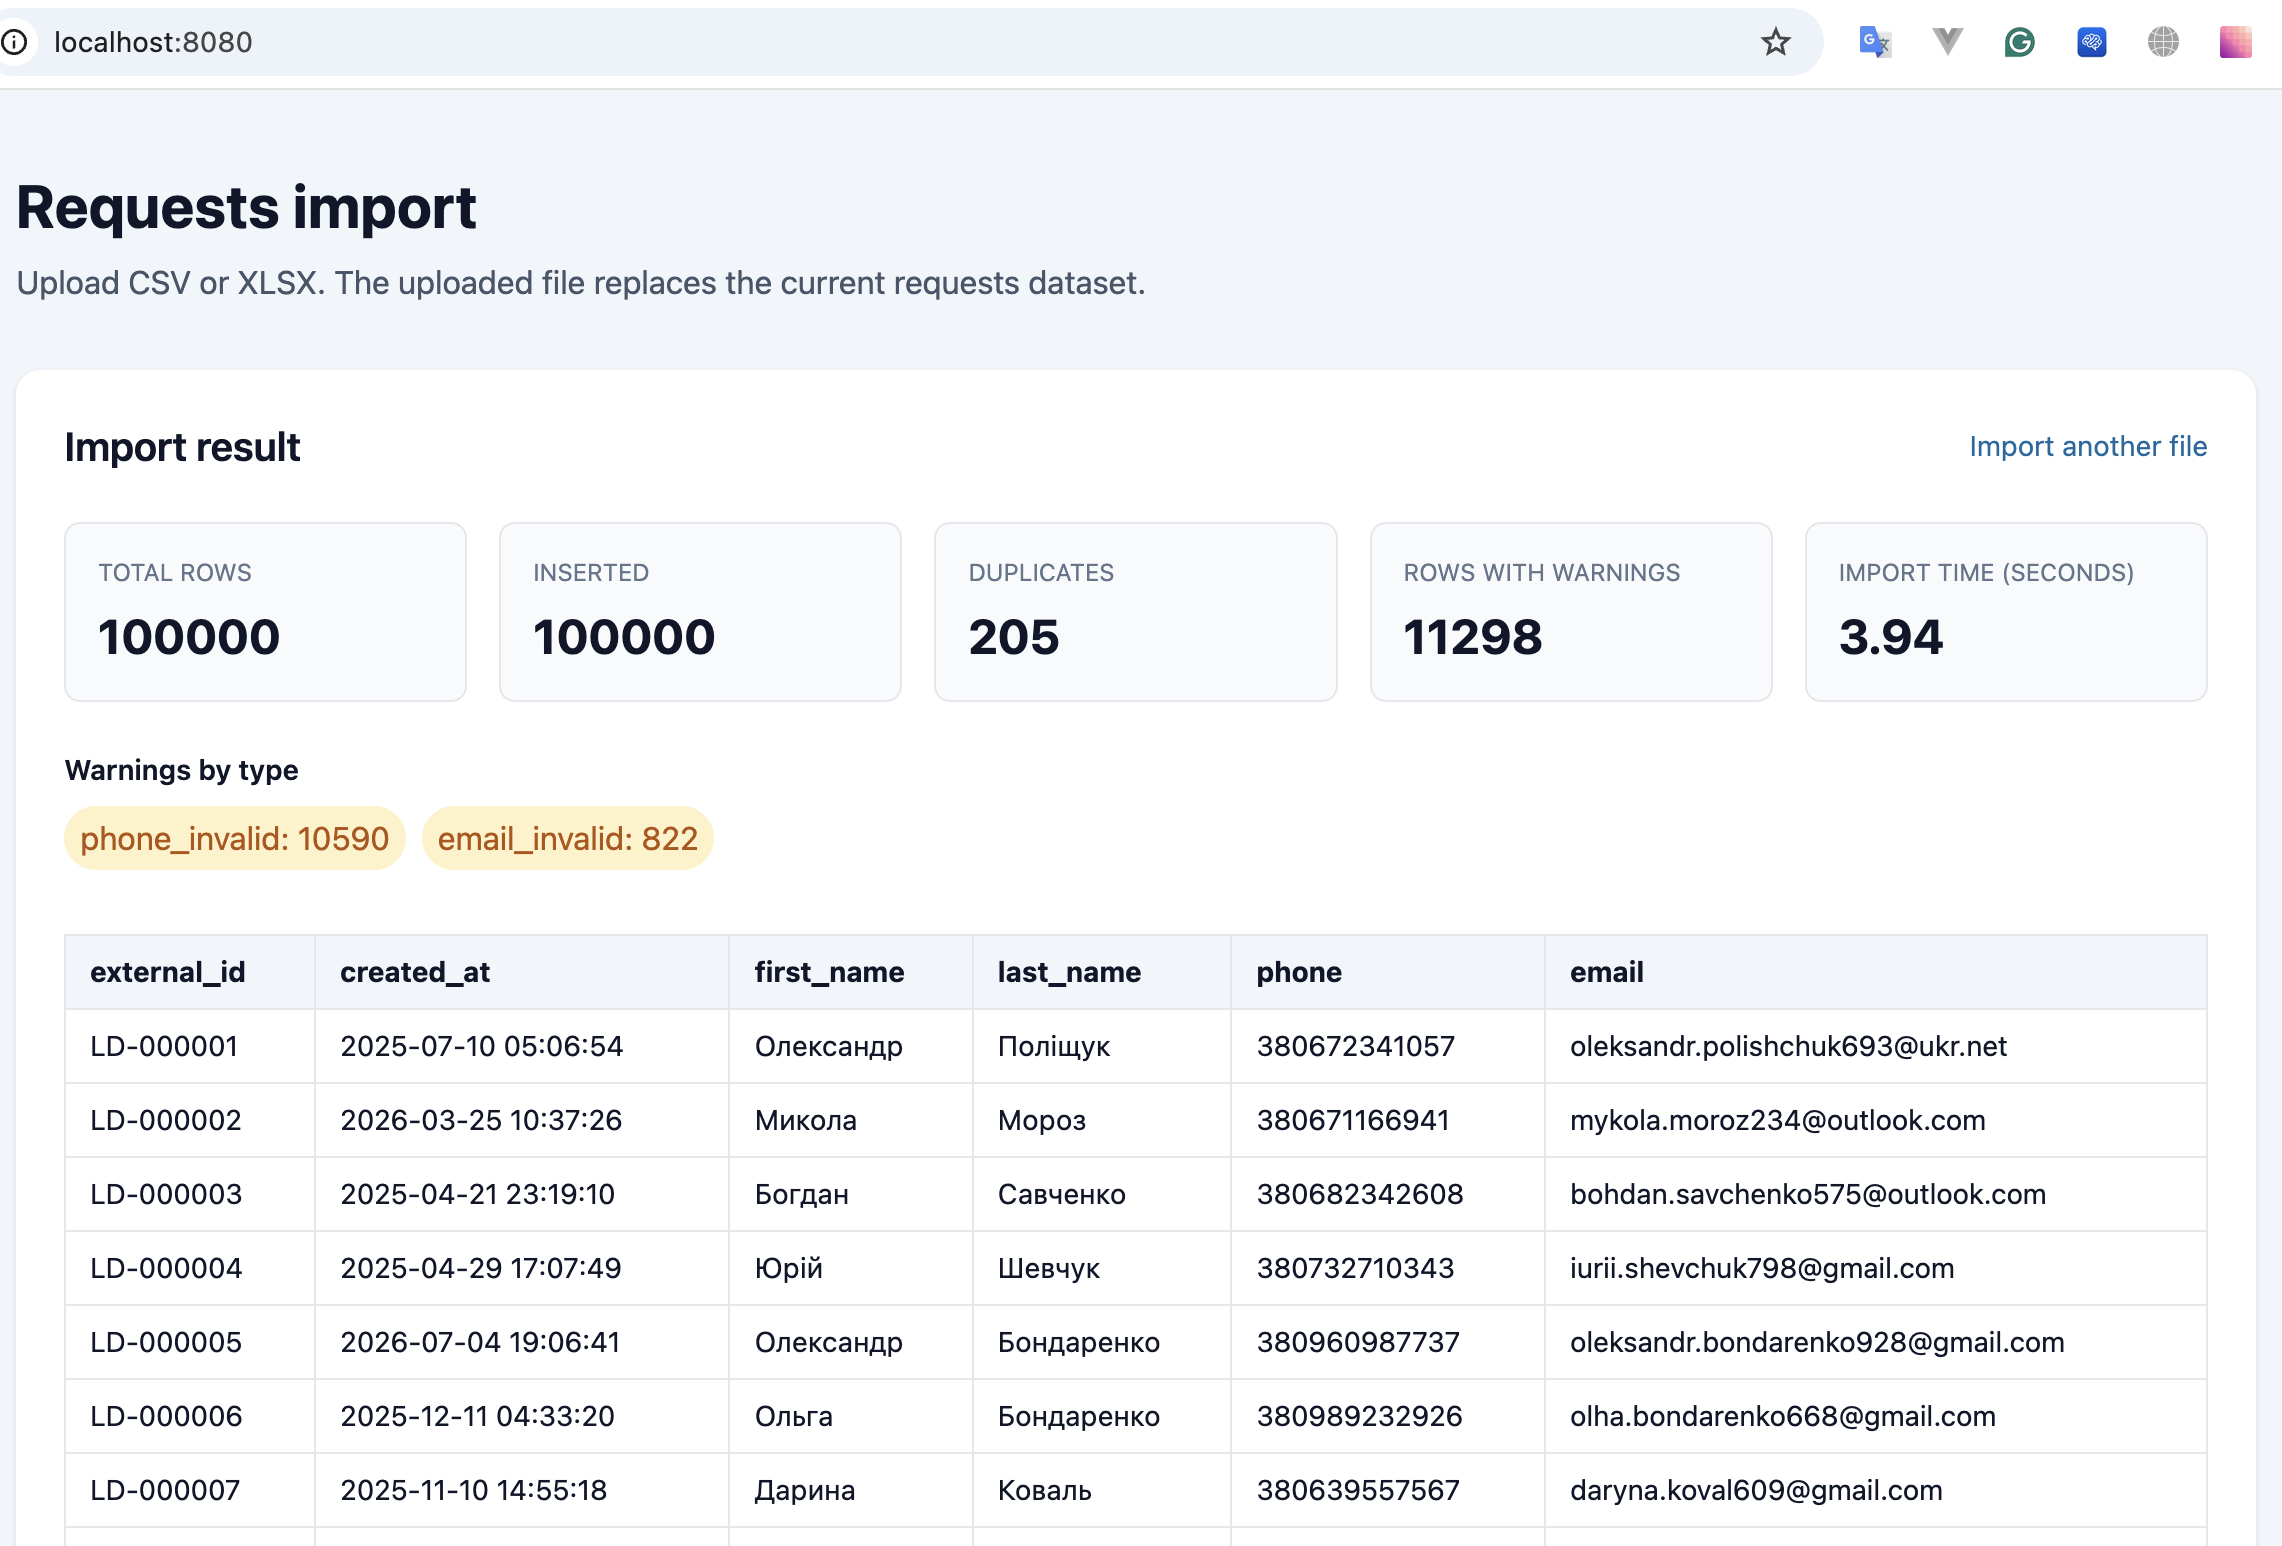
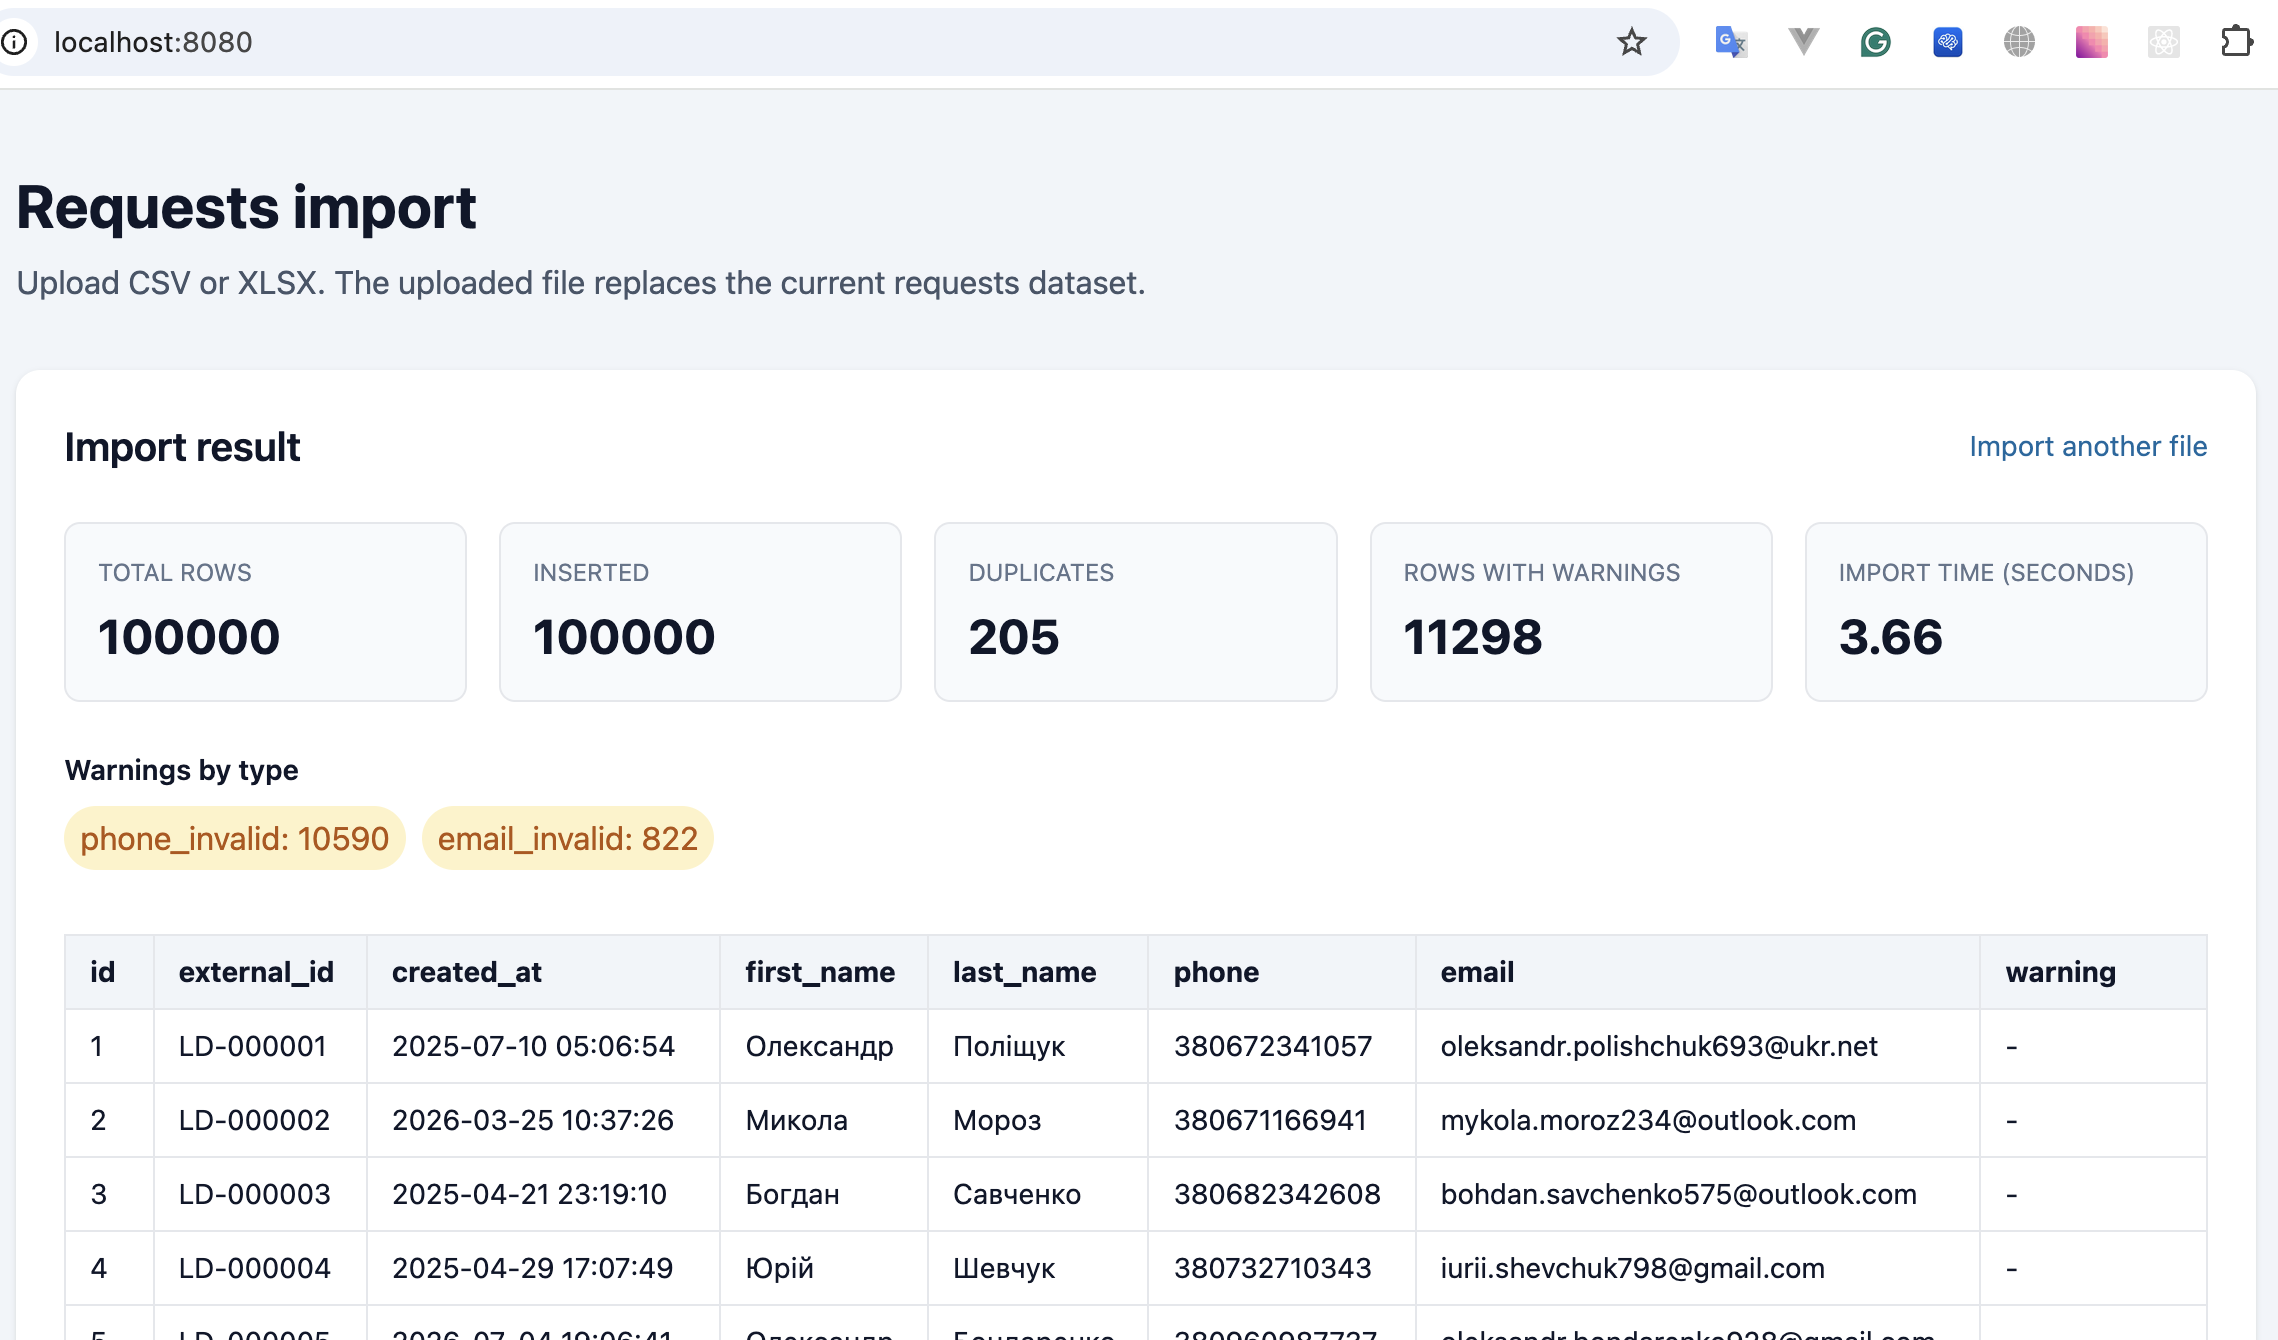
documentation

diff --git a/README.md b/README.md
@@ -117,8 +117,8 @@ docker compose exec web sh -lc 'cd /var/www/html && php tests/RowNormalizerTest.
 
 | Формат | Рядків | Час імпорту |
 |---|---:|---:|
-| CSV | 100 000 | 3.94 с |
-| XLSX | 100 000 | 11.48 с |
+| CSV | 100 000 | 3.66 с |
+| XLSX | 100 000 | 11.6 с |
 
 Час XLSX включає конвертацію у CSV та запис даних у базу.
 
@@ -129,3 +129,6 @@ docker compose exec web sh -lc 'cd /var/www/html && php tests/RowNormalizerTest.
 ### Результат XLSX
 
 ![Результат імпорту XLSX](result_xlsx.png)
+
+### Попередження 
+![Попередження ](warnin_info.png)
